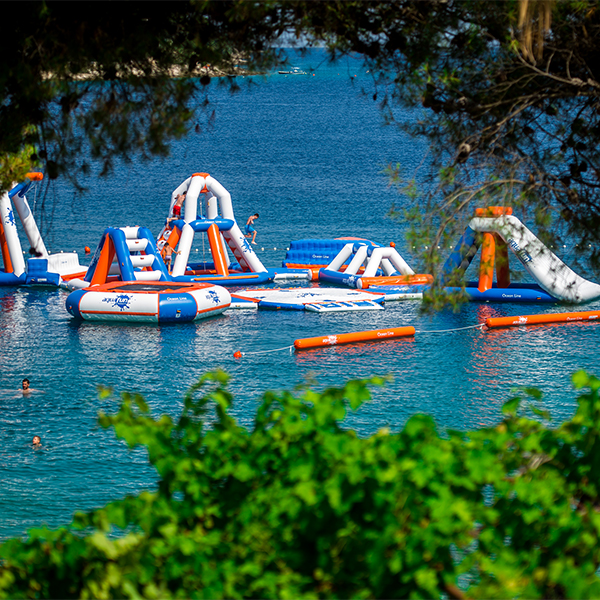
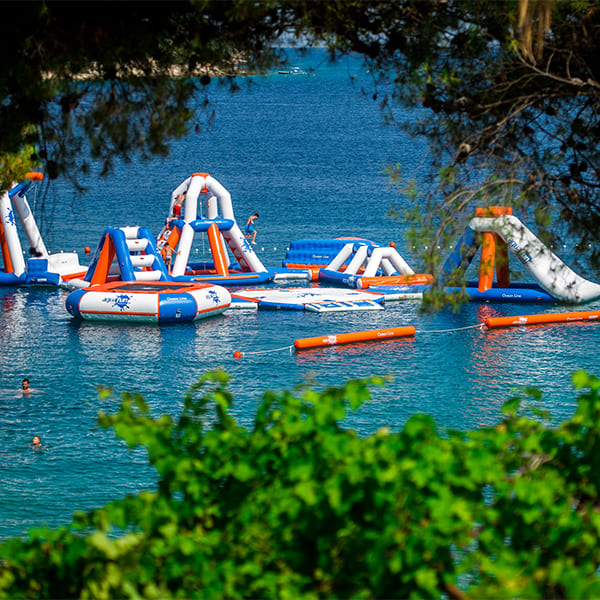
2.1 I've compressed all images, so they are lighter and page loads faster.

diff --git a/index.html b/index.html
@@ -68,15 +68,15 @@
         <div class="first__content-top">
           <div class="content-card">
             <p>Alquiler y venta de elementos</p>
-            <img src="./media/M2__01-lg.jpg" />
+            <img src="./media/M2__01-sm.jpg" />
           </div>
           <div class="content-card">
             <p>Auditoría y consultoría en montajes</p>
-            <img src="./media/M2__02-lg.jpg" />
+            <img src="./media/M2__02-sm.jpg" />
           </div>
           <div class="content-card">
             <p>Seguridad y legislaciones</p>
-            <img src="./media/M2__03-lg.jpg" />
+            <img src="./media/M2__03-sm.jpg" />
           </div>
         </div>
         <div class="first__content-bottom">
@@ -90,7 +90,7 @@
               Cumplimiento de las normativas europeas en calidad y servicio
             </p>
           </div>
-          <img src="./media/M2__04-lg.jpg" class="image" alt="" />
+          <img src="./media/M2__04-sm.jpg" class="image" alt="" />
         </div>
       </section>
       <section class="main__second">
